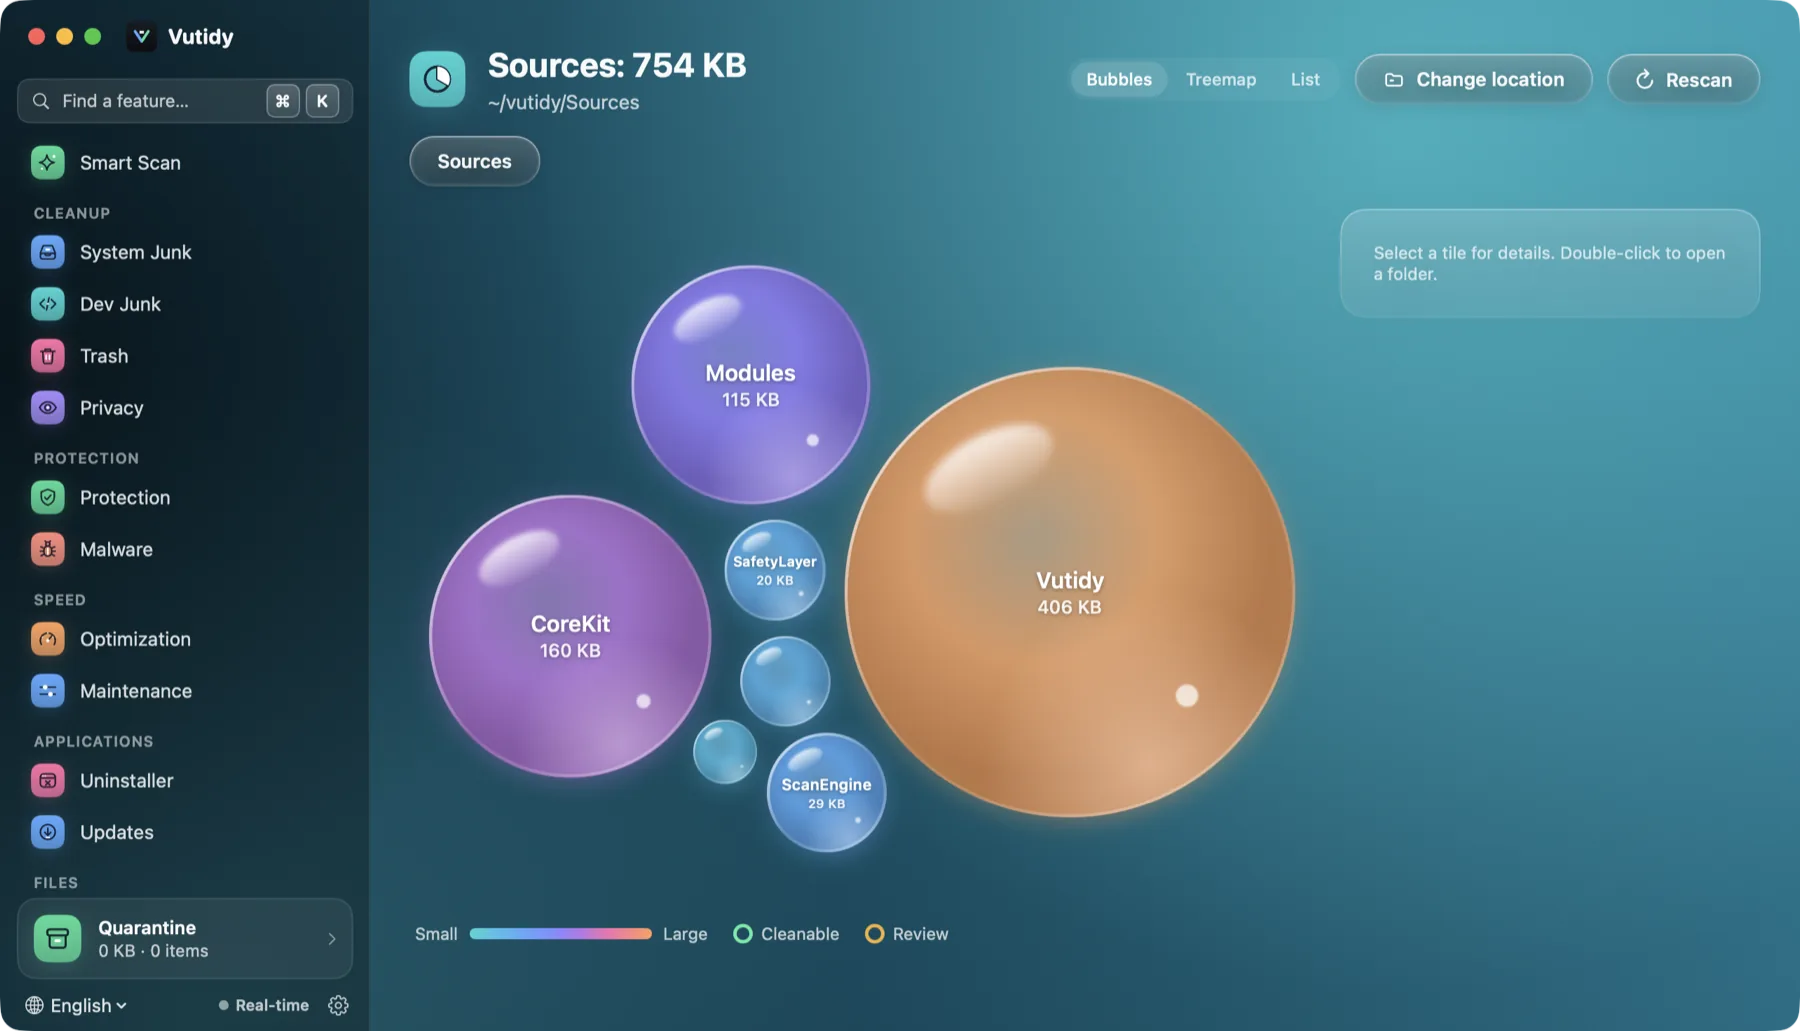
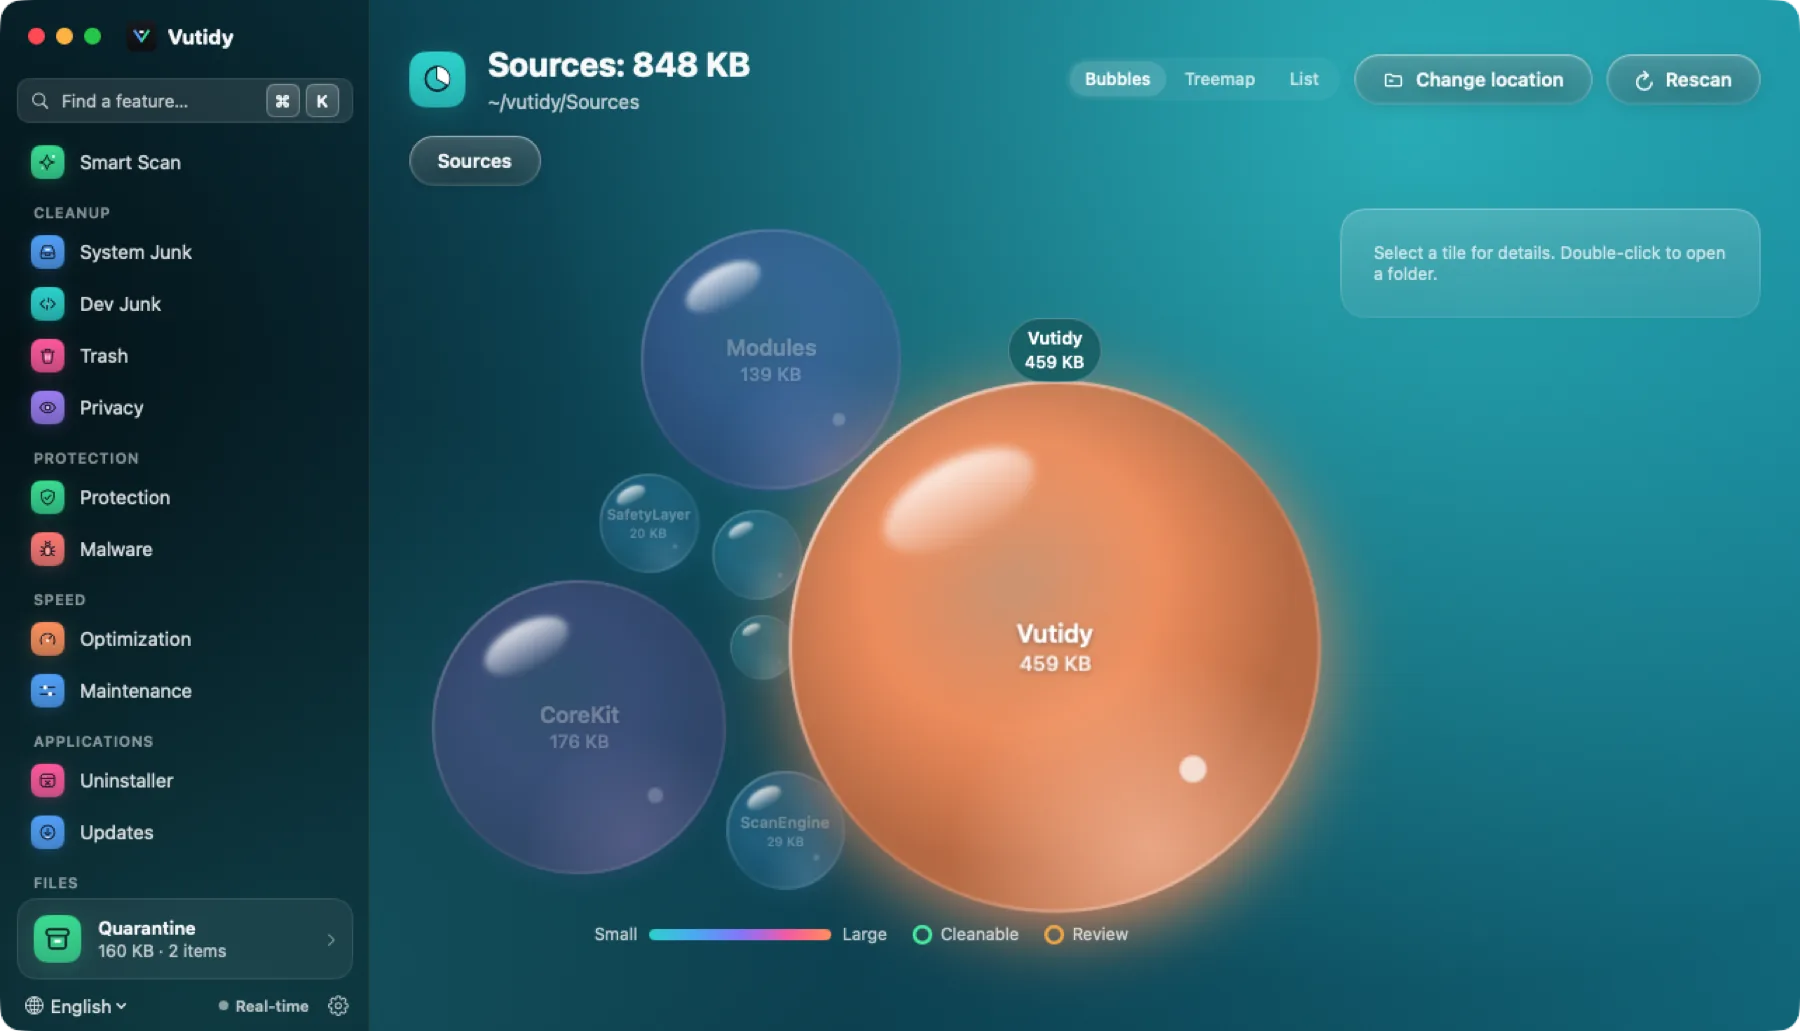
Show a persistent update card in the sidebar and add Help > Check for Updates
- Sidebar card (and a dot on the gear) while a new version is available or installing.
- Help menu item that opens Settings and checks right away.
- Translate "About Vutidy" and the update strings (en/ja/zh).
- View menu: no empty section header above Smart Scan.
- Space Lens: centre the legend under the bubble chart.

diff --git a/Sources/Vutidy/SettingsUpdate.swift b/Sources/Vutidy/SettingsUpdate.swift
@@ -66,3 +66,45 @@ struct UpdateSettingsGroup: View {
         return text.isEmpty ? tr("Không có ghi chú.") : text
     }
 }
+
+/// Thẻ cố định ở đáy sidebar khi có bản Vutidy mới (hoặc đang tải/cài): luôn thấy ở mọi trang, bấm để mở Cài đặt → Cập nhật.
+struct UpdateBadgeCard: View {
+    @EnvironmentObject var state: AppState
+
+    private var info: (title: String, sub: String, busy: Bool)? {
+        switch state.appUpdate {
+        case .available(let r): return (trf("Có Vutidy %@ mới", "\(r.version)"), tr("Bấm để cập nhật"), false)
+        case .downloading(let p): return (tr("Đang cập nhật…"), trf("Đang tải… %@%%", "\(Int(p * 100))"), true)
+        case .installing: return (tr("Đang cập nhật…"), tr("Đang xác minh và cài đặt…"), true)
+        default: return nil
+        }
+    }
+
+    var body: some View {
+        if let i = info {
+            Button { state.openSettings(.general) } label: {
+                HStack(spacing: 10) {
+                    ZStack {
+                        Circle().fill(Theme.Signal.base.opacity(0.22))
+                        if i.busy { VSpinner(size: 14, lineWidth: 2) }
+                        else { Image(systemName: "arrow.down.circle.fill").font(.system(size: 16)).foregroundStyle(Theme.Signal.base) }
+                    }.frame(width: 30, height: 30)
+                    VStack(alignment: .leading, spacing: 1) {
+                        Text(i.title).font(.vt(size: 12.5, weight: .semibold)).foregroundStyle(Theme.Text.primary).lineLimit(1)
+                        Text(i.sub).font(Theme.Font.caption).foregroundStyle(Theme.Text.secondary).lineLimit(1)
+                    }
+                    Spacer(minLength: 0)
+                    Image(systemName: "chevron.right").font(.system(size: 10, weight: .semibold)).foregroundStyle(Theme.Text.tertiary)
+                }
+                .padding(.horizontal, 10).padding(.vertical, 8)
+                .background(RoundedRectangle(cornerRadius: 12, style: .continuous).fill(Theme.Signal.base.opacity(0.12)))
+                .overlay(RoundedRectangle(cornerRadius: 12, style: .continuous).strokeBorder(Theme.Signal.base.opacity(0.35)))
+                .contentShape(Rectangle())
+            }
+            .buttonStyle(PlainPointerStyle())
+            .padding(.horizontal, 12).padding(.top, 6)
+            .transition(.opacity.combined(with: .move(edge: .bottom)))
+            .help(tr("Cập nhật Vutidy"))
+        }
+    }
+}

diff --git a/Sources/Vutidy/VutidyApp.swift b/Sources/Vutidy/VutidyApp.swift
@@ -118,8 +118,13 @@ struct VutidyApp: App {
                 Button(tr("Tìm tính năng…")) { state.paletteOpen = true; state.showMainWindow() }
                 Divider()
                 ForEach(Page.groups, id: \.0) { name, pages in
-                    Section(name) {
+                    // Nhóm không tên (Smart Scan) không có tiêu đề: một Section rỗng chừa khoảng trắng trong menu.
+                    if name.isEmpty {
                         ForEach(pages) { p in Button(p.title) { state.section = p; state.settingsOpen = false; state.showMainWindow() } }
+                    } else {
+                        Section(name) {
+                            ForEach(pages) { p in Button(p.title) { state.section = p; state.settingsOpen = false; state.showMainWindow() } }
+                        }
                     }
                 }
             }
@@ -131,6 +136,8 @@ struct VutidyApp: App {
                 Button(tr("Thoát hẳn Vutidy")) { AppDelegate.quitCompletely() }.keyboardShortcut("q", modifiers: [.command, .option])
             }
             CommandGroup(replacing: .help) {
+                Button(tr("Kiểm tra cập nhật…")) { state.openSettings(.general); Task { await state.checkForUpdates() } }
+                Divider()
                 Button(tr("Phím tắt")) { state.openSettings(.shortcuts); state.showMainWindow() }
                 Button(tr("Ủng hộ Vutidy")) { state.openSettings(.support); state.showMainWindow() }
             }

diff --git a/Sources/Vutidy/RootView.swift b/Sources/Vutidy/RootView.swift
@@ -129,6 +129,7 @@ struct Sidebar: View {
                 }.padding(.horizontal, 12).padding(.bottom, 8)
             }
 
+            UpdateBadgeCard()
             QuarantineCard().padding(.horizontal, 12).padding(.top, 6)
             footer.padding(.horizontal, 14).padding(.vertical, 10)
         }
@@ -148,7 +149,10 @@ struct Sidebar: View {
                 }.foregroundStyle(Theme.Text.secondary)
             }.buttonStyle(PlainPointerStyle())
             .help(state.realtimeOn ? tr("Real-time bật") : tr("Real-time tắt"))
-            Button { state.openSettings(.general) } label: { Image(systemName: "gearshape").font(.system(size: 14)) }
+            Button { state.openSettings(.general) } label: {
+                Image(systemName: "gearshape").font(.system(size: 14))
+                    .overlay(alignment: .topTrailing) { if state.hasUpdate { Circle().fill(Theme.Signal.base).frame(width: 7, height: 7).offset(x: 3, y: -3) } }
+            }
                 .buttonStyle(PlainPointerStyle()).foregroundStyle(Theme.Text.secondary).help(tr("Mở Cài đặt") + " (⌘,)")
         }
     }

diff --git a/Sources/Vutidy/AppState.swift b/Sources/Vutidy/AppState.swift
@@ -29,14 +29,14 @@ enum Page: String, CaseIterable, Identifiable {
         case .largeFiles: "doc.badge.clock"; case .duplicates: "square.on.square"; case .cloud: "icloud"; case .quarantine: "archivebox"
         }
     }
-    static var groups: [(String, [Page])] = [
+    static var groups: [(String, [Page])] { [
         ("", [.smartScan]),
         (tr("Dọn dẹp"), [.systemJunk, .devJunk, .trash, .privacy]),
         (tr("Bảo vệ"), [.protection, .malware]),
         (tr("Tốc độ"), [.optimization, .maintenance]),
         (tr("Ứng dụng"), [.uninstaller, .updater]),
         (tr("File"), [.spaceLens, .largeFiles, .duplicates, .cloud]),
-    ]
+    ] }
     /// Module dọn dẹp tương ứng, nếu có.
     var cleanupID: String? {
         switch self { case .systemJunk: "system-junk"; case .devJunk: "dev-junk"; case .trash: "trash"; case .privacy: "privacy"; default: nil }

diff --git a/Sources/CoreKit/Localization/Japanese.swift b/Sources/CoreKit/Localization/Japanese.swift
@@ -284,6 +284,9 @@ enum Japanese {
         "Không có ghi chú.": "リリースノートはありません。",
         "Có Vutidy %@ mới": "Vutidy %@ が利用できます",
         "Kiểm tra cập nhật…": "アップデートを確認…",
+        "Bấm để cập nhật": "クリックして更新",
+        "Cập nhật Vutidy": "Vutidy を更新",
+        "Giới thiệu Vutidy": "Vutidy について",
         "Không kết nối được tới GitHub: %@": "GitHub に接続できません: %@",
         "GitHub trả về dữ liệu không hiểu được.": "GitHub から解釈できないデータが返されました。",
         "Bản phát hành này chưa có file cài đặt (.zip) cho macOS.": "このリリースには macOS 用の .zip がありません。",

diff --git a/Sources/CoreKit/Localization/English.swift b/Sources/CoreKit/Localization/English.swift
@@ -285,6 +285,9 @@ enum English {
         "Không có ghi chú.": "No release notes.",
         "Có Vutidy %@ mới": "Vutidy %@ is available",
         "Kiểm tra cập nhật…": "Check for Updates…",
+        "Bấm để cập nhật": "Click to update",
+        "Cập nhật Vutidy": "Update Vutidy",
+        "Giới thiệu Vutidy": "About Vutidy",
         "Không kết nối được tới GitHub: %@": "Could not reach GitHub: %@",
         "GitHub trả về dữ liệu không hiểu được.": "GitHub returned data that could not be understood.",
         "Bản phát hành này chưa có file cài đặt (.zip) cho macOS.": "This release has no macOS .zip package.",

diff --git a/Sources/CoreKit/Localization/Chinese.swift b/Sources/CoreKit/Localization/Chinese.swift
@@ -285,6 +285,9 @@ enum Chinese {
         "Không có ghi chú.": "没有发行说明。",
         "Có Vutidy %@ mới": "Vutidy %@ 可用",
         "Kiểm tra cập nhật…": "检查更新…",
+        "Bấm để cập nhật": "点击更新",
+        "Cập nhật Vutidy": "更新 Vutidy",
+        "Giới thiệu Vutidy": "关于 Vutidy",
         "Không kết nối được tới GitHub: %@": "无法连接 GitHub：%@",
         "GitHub trả về dữ liệu không hiểu được.": "GitHub 返回了无法理解的数据。",
         "Bản phát hành này chưa có file cài đặt (.zip) cho macOS.": "此版本没有 macOS 的 .zip 安装包。",

diff --git a/Sources/Vutidy/Bubbles.swift b/Sources/Vutidy/Bubbles.swift
@@ -245,7 +245,7 @@ struct BubbleLegend: View {
                     Text(s.label).font(Theme.Font.caption).foregroundStyle(Theme.Text.secondary)
                 }
             }
-            Spacer()
         }
+        .frame(maxWidth: .infinity, alignment: .center)   // căn giữa dưới biểu đồ
     }
 }

diff --git a/Sources/Vutidy/AppUpdateState.swift b/Sources/Vutidy/AppUpdateState.swift
@@ -4,6 +4,8 @@ import Modules
 import SafetyLayer
 
 extension AppState {
+    var hasUpdate: Bool { if case .available = appUpdate { return true }; return false }
+
     var isBusyUpdating: Bool {
         switch appUpdate { case .checking, .downloading, .installing: return true; default: return false }
     }
